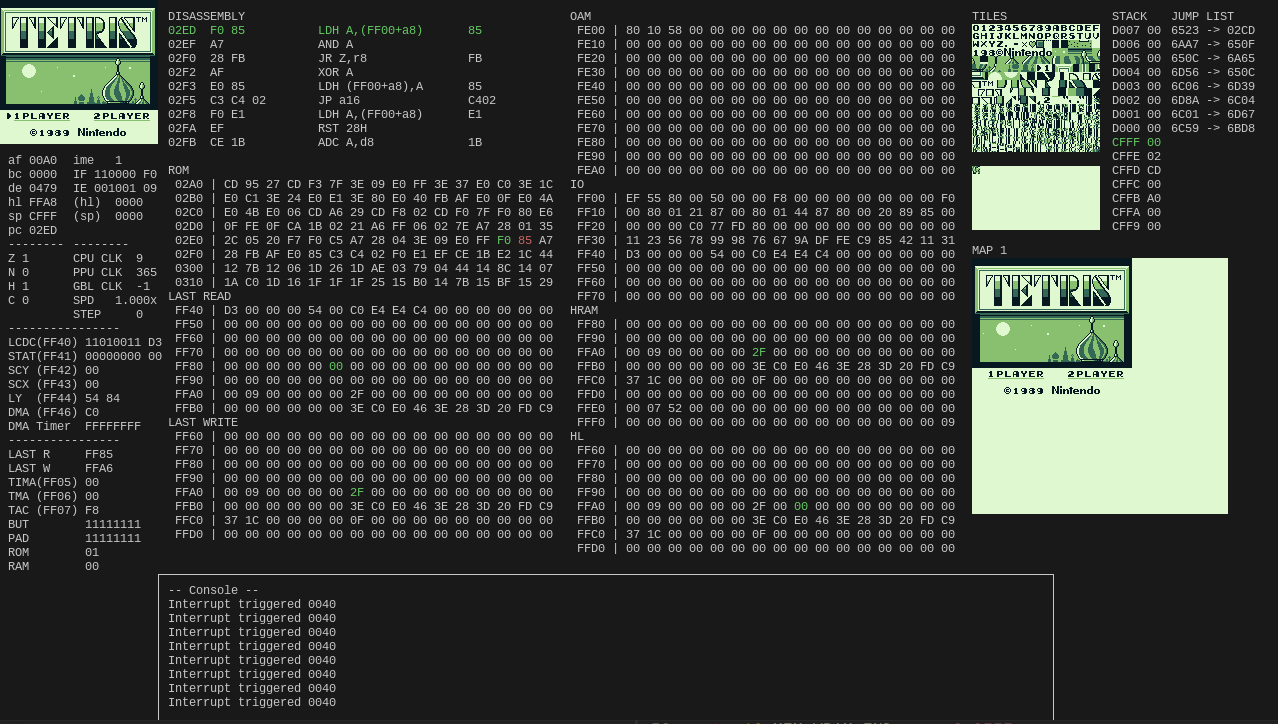
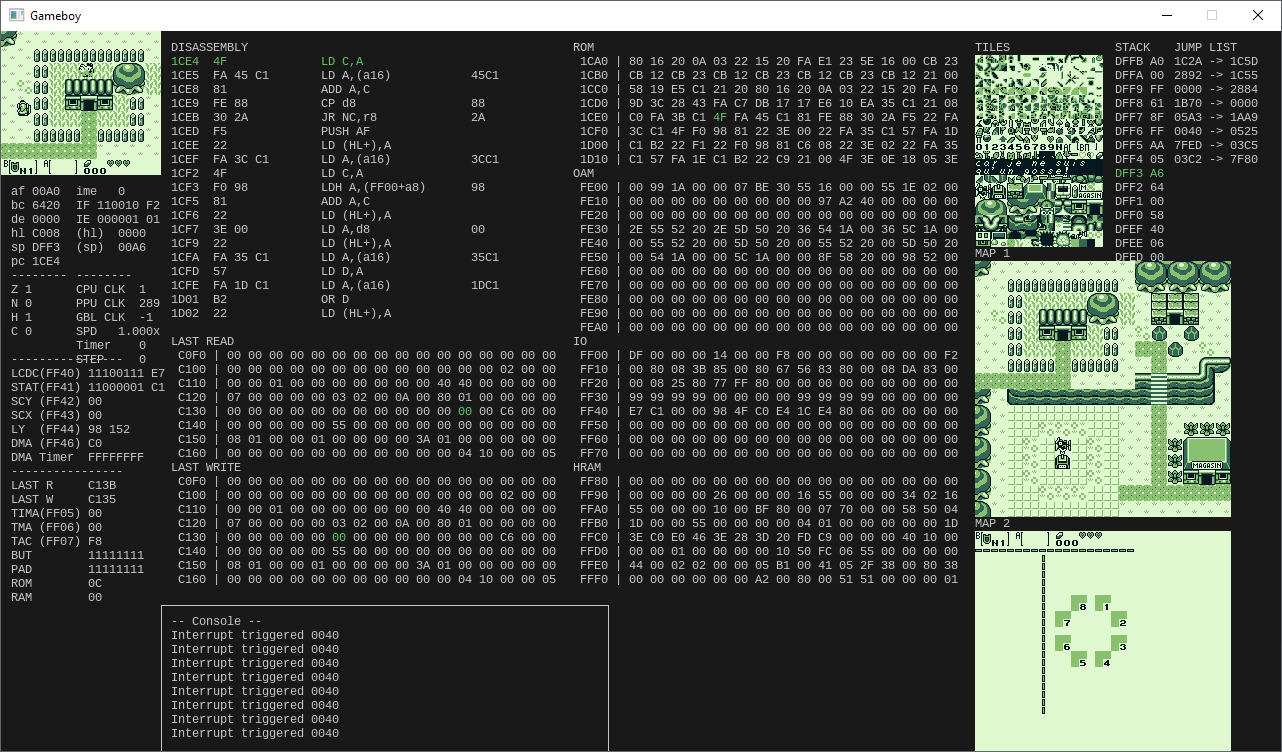
Drawing window

diff --git a/src/gb.c b/src/gb.c
@@ -451,24 +451,13 @@ inline TileLine gbGetTileLine(Gameboy *gb, u8 tile_offset, bool mode, u8 line) {
     return result;
 }
 
-void gbBackground(Gameboy *gb, u8 LCDC, u8 LY) {
-    u8 SCY  = gbReadAt(gb, IO_SCY ,0);
-    u8 SCX  = gbReadAt(gb, IO_SCX ,0);
-    u8 BGP  = gbReadAt(gb, IO_BGP ,0);
-
-    bool tile_data_select = LCDC >> 4 & 1;
-    bool bg_tile_map_select = LCDC >> 3 & 1;
-    
-    u16 tile_map_base_address = bg_tile_map_select ? 0x9C00 : 0x9800;
-
-    u8 map_line  = ((LY + SCY) / 8) % 32;
-    u8 tile_line = (LY + SCY) % 8;
+void gbDrawBackgroundLine(Gameboy *gb, u8 LY, u8 SCX, u8 map_line, u8 tile_line, u16 base_address, bool tile_data_select) {
     
     Palette bg_pal = GetPaletteFromByte(gbReadAt(gb, IO_BGP, 0));
 
     for(u16 x = 0; x < SCREEN_WIDTH; x++) {
         u8 map_x = ((SCX + (u8)x) / 8) % 32;
-        u16 address = (tile_map_base_address + map_x) + (map_line * 32);
+        u16 address = (base_address + map_x) + (map_line * 32);
         u8 tile_id = gbReadAt(gb, address, 0);
         TileLine tl = gbGetTileLine(gb, tile_id, tile_data_select, tile_line);
         
@@ -479,13 +468,43 @@ void gbBackground(Gameboy *gb, u8 LCDC, u8 LY) {
         color_val   |= (tl.data_1 >> (7-tile_x) & 1);
         gb->lcd_screen[LY][x] = bg_pal.array[color_val];
     }
+
+}
+
+void gbBackground(Gameboy *gb, u8 LCDC, u8 LY) {
+    u8 SCY  = gbReadAt(gb, IO_SCY ,0);
+    u8 SCX  = gbReadAt(gb, IO_SCX ,0);
+    u8 BGP  = gbReadAt(gb, IO_BGP ,0);
+
+    bool tile_data_select = LCDC >> 4 & 1;
+    bool bg_tile_map_select = LCDC >> 3 & 1;
+    u16 tile_map_base_address = bg_tile_map_select ? 0x9C00 : 0x9800;
+
+    u8 map_line  = ((LY + SCY) / 8) % 32;
+    u8 tile_line = (LY + SCY) % 8;
+
+    gbDrawBackgroundLine(gb, LY, SCX, map_line, tile_line, tile_map_base_address, tile_data_select);
 }
 
 void gbWindow(Gameboy *gb, u8 LCDC, u8 LY) {
-    bool window_tile_data_select = LCDC >> 6 & 1;
     bool window_display = LCDC >> 5 & 1;
     if(window_display) {
+        u8 WY   = gbReadAt(gb, IO_WY, 0);
+        u8 WX   = gbReadAt(gb, IO_WX, 0) - 8;
+            
+        if(LY < WY)
+            return;
 
+        i8 map_line  = ((LY - WY) / 8);
+        if (map_line > 32 || map_line < 0) 
+            return;
+         u8 tile_line = (LY - WY) % 8;
+      
+        bool tile_data_select = LCDC >> 4 & 1;
+        bool window_tile_data_select = LCDC >> 6 & 1;
+        u16 tile_map_base_address = window_tile_data_select ? 0x9C00 : 0x9800;
+        
+        gbDrawBackgroundLine(gb, LY, WX, map_line, tile_line, tile_map_base_address, tile_data_select);
     }
 }
 
@@ -549,8 +568,6 @@ void gbLCD(Gameboy *gb) {
     }
     
     u8 STAT = gbReadAt(gb, IO_STAT, 0);
-    u8 WY   = gbReadAt(gb, IO_WY, 0);
-    u8 WX   = gbReadAt(gb, IO_WX, 0);
     u8 LY   = gbReadAt(gb, IO_LY, 0);
     u8 LYC  = gbReadAt(gb, IO_LYC, 0);
 
@@ -994,8 +1011,6 @@ void gbDrawDebug(Gameboy *gb, SDL_Rect rect, Console *console, SDL_Renderer *ren
                 }
                 y+= 8;
             }
-            
-            RenderLine(renderer, x_section_start, &y, " ");
             tile_addr = 0x00;
             x = x_section_start;
             for(u32 j = 0; j < 0x8; j ++){ // Tiles vert
@@ -1020,7 +1035,6 @@ void gbDrawDebug(Gameboy *gb, SDL_Rect rect, Console *console, SDL_Renderer *ren
             }
             y_section = y;
         }
-        RenderLine(renderer, x_section_start, &y_section, " ");
         {
             RenderLine(renderer, x_section_start, &y_section, "MAP 1");
             u8 LCDC = gbReadAt(gb, 0xFF40, 0);
@@ -1043,8 +1057,34 @@ void gbDrawDebug(Gameboy *gb, SDL_Rect rect, Console *console, SDL_Renderer *ren
                     }
                 }
             }
+            y_section += 32 * 8;
         }
         
+        {
+            RenderLine(renderer, x_section_start, &y_section, "MAP 2");
+            u8 LCDC = gbReadAt(gb, 0xFF40, 0);
+            bool tile_data_select = LCDC >> 4 & 1;
+            u16 base_addr = 0x9C00;
+            for(u32 y = 0; y < 32; y++) {
+                for(u32 x = 0; x < 32; x++) {
+                    u16 addr = base_addr + x + y * 32;
+                    u8 tile_id = gbReadAt(gb, addr, 0);
+                    for(u16 line = 0; line < 8; line++) {
+                        TileLine tl = gbGetTileLine(gb, tile_id, tile_data_select, line);
+                        for(i32 row = 0; row < 8; row++) {
+                            u8 pixel = (tl.data_2 >> (7 - row) & 1);
+                            pixel <<= 1;
+                            pixel |= (tl.data_1 >> (7 - row) & 1);
+                            Color color = palette[pixel];
+                            SDL_SetRenderDrawColor(renderer, color.r, color.g, color.b, 255); 
+                            SDL_RenderDrawPoint(renderer, x_section + x * 8 + row, y_section + y * 8 + line);
+                        }
+                    }
+                }
+            }
+        }
+
+
         // New column
         x_section += 140;
         x_section_start = x_section;

diff --git a/src/console.c b/src/console.c
@@ -50,6 +50,6 @@ void DrawConsole(SDL_Renderer *renderer, Console *console, u32 x, u32 bottom) {
     i32 w;
     TTF_SizeText(global_font, "X", &w, 0);
     
-    const SDL_Rect rect = {x, top - line_height - 10, w * 128, bottom - top + line_height + line_height};
+    const SDL_Rect rect = {x, top - line_height - 10, w * 64, bottom - top + line_height + line_height};
     SDL_RenderDrawRect(renderer, &rect);
 }
